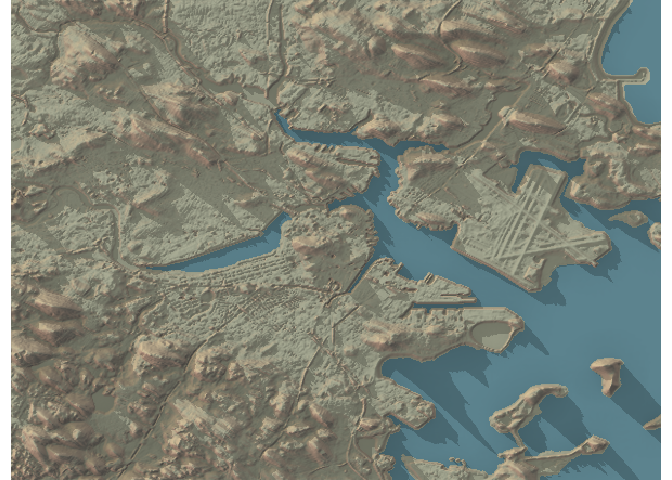
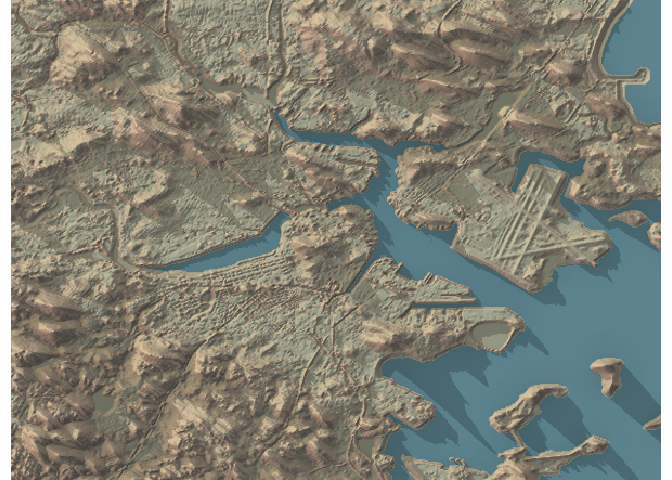
Add paramaters to automap_2d

diff --git a/docs/reference/automap_2d.html b/docs/reference/automap_2d.html
@@ -154,10 +154,16 @@ functioning internet connection in order to retrieve data.</p>
   <span class='kw'>distance</span> <span class='kw'>=</span> <span class='fl'>10</span>,
   <span class='kw'>major.dim</span> <span class='kw'>=</span> <span class='fl'>600</span>,
   <span class='kw'>overlay</span> <span class='kw'>=</span> <span class='kw'>NULL</span>,
-  <span class='kw'>z</span> <span class='kw'>=</span> <span class='fl'>0.3</span>,
+  <span class='kw'>z</span> <span class='kw'>=</span> <span class='fl'>9</span>,
   <span class='kw'>overlay.alpha</span> <span class='kw'>=</span> <span class='fl'>0.75</span>,
   <span class='kw'>colorscale</span> <span class='kw'>=</span> <span class='st'>"imhof4"</span>,
+  <span class='kw'>color.intensity</span> <span class='kw'>=</span> <span class='fl'>1</span>,
   <span class='kw'>max.darken</span> <span class='kw'>=</span> <span class='fl'>0.5</span>,
+  <span class='kw'>sun.angle</span> <span class='kw'>=</span> <span class='fl'>315</span>,
+  <span class='kw'>sun.altitude</span> <span class='kw'>=</span> <span class='fl'>45</span>,
+  <span class='kw'>water.cutoff</span> <span class='kw'>=</span> <span class='fl'>0.999</span>,
+  <span class='kw'>water.min.area</span> <span class='kw'>=</span> <span class='fu'><a href='https://rdrr.io/r/base/length.html'>length</a></span>(<span class='no'>heightmap</span>)/<span class='fl'>400</span>,
+  <span class='kw'>water.max.height</span> <span class='kw'>=</span> <span class='kw'>NULL</span>,
   <span class='kw'>save.tif</span> <span class='kw'>=</span> <span class='fl'>FALSE</span>,
   <span class='kw'>save.png</span> <span class='kw'>=</span> <span class='fl'>FALSE</span>,
   <span class='kw'>from.file</span> <span class='kw'>=</span> <span class='fu'><a href='https://rdrr.io/r/base/c.html'>c</a></span>(<span class='fl'>FALSE</span>, <span class='st'>"tif"</span>, <span class='st'>"png"</span>, <span class='fl'>TRUE</span>),
@@ -204,7 +210,10 @@ local file as an overlay.</p></td>
       <th>z</th>
       <td><p>zscale, passed to various rayshader functions. Defined as
 the ratio between the x and y spacing (which are assumed to be equal)
-and the z axis.</p></td>
+and the z axis. For contiguous United States, USGS data is generally
+available at a ~9 meter spacing, with elevation provided in meter increments,
+resulting in a z value of 9 returning roughly representative maps; decrease
+this value to exaggerate elevation features.</p></td>
     </tr>
     <tr>
       <th>overlay.alpha</th>
@@ -218,8 +227,42 @@ greater than  length 1, values named "water" or "watercolor" will be used
 for water coloring, while "land" or "landcolor" will be used for land.</p></td>
     </tr>
     <tr>
+      <th>color.intensity</th>
+      <td><p>Intensity of color mapping -- higher values result in
+more intense colors.</p></td>
+    </tr>
+    <tr>
       <th>max.darken</th>
-      <td><p>Passed to <code><a href='https://rdrr.io/pkg/rayshader/man/add_shadow.html'>add_shadow</a></code>.</p></td>
+      <td><p>Passed to <code><a href='https://rdrr.io/pkg/rayshader/man/add_shadow.html'>add_shadow</a></code>. The lower
+limit for how much the image will be darkened. 0 is completely black, 1 means
+the shadow map will have no effect.</p></td>
+    </tr>
+    <tr>
+      <th>sun.angle</th>
+      <td><p>Angle around the matrix from which lights originate. Values
+line up with compass directions -- so 0 is directly North, while the default
+315 places the sun in the Northwest.</p></td>
+    </tr>
+    <tr>
+      <th>sun.altitude</th>
+      <td><p>Angle in degrees from horizon from which light
+originates. Bounded [0, 90].</p></td>
+    </tr>
+    <tr>
+      <th>water.cutoff</th>
+      <td><p>Passed to <code><a href='https://rdrr.io/pkg/rayshader/man/detect_water.html'>detect_water</a></code>. Defined
+therein as the lower limit of the z-component of the unit normal vector to
+be classified as water.</p></td>
+    </tr>
+    <tr>
+      <th>water.min.area</th>
+      <td><p>Passed to <code><a href='https://rdrr.io/pkg/rayshader/man/detect_water.html'>detect_water</a></code>. The
+minimum possible area to consider a body of water.</p></td>
+    </tr>
+    <tr>
+      <th>water.max.height</th>
+      <td><p>Passed to <code><a href='https://rdrr.io/pkg/rayshader/man/detect_water.html'>detect_water</a></code>. If
+provided, the maximum height a point can be classified water.</p></td>
     </tr>
     <tr>
       <th>save.tif</th>
@@ -279,6 +322,12 @@ or radians.</p></td>
     <h2 class="hasAnchor" id="value"><a class="anchor" href="#value"></a>Value</h2>
 
     <p>A rayshader map object, by default printed and returned invisibly.</p>
+    <h2 class="hasAnchor" id="references"><a class="anchor" href="#references"></a>References</h2>
+
+    <p>Archuleta, C.M., Constance, E.W., Arundel, S.T., Lowe, A.J., Mantey, K.S.,
+and Phillips, L.A., 2017, The National Map seamless digital elevation model
+specifications: U.S. Geological Survey Techniques and Methods, book 11,
+chap. B9, 39 p., https://doi.org/10.3133/tm11B9</p>
 
   </div>
   <div class="col-md-3 hidden-xs hidden-sm" id="sidebar">
@@ -286,6 +335,7 @@ or radians.</p></td>
     <ul class="nav nav-pills nav-stacked">
       <li><a href="#arguments">Arguments</a></li>
       <li><a href="#value">Value</a></li>
+      <li><a href="#references">References</a></li>
     </ul>
 
   </div>

diff --git a/docs/index.html b/docs/index.html
@@ -96,7 +96,7 @@
 <!-- badges: start -->
 
 <div class="sourceCode" id="cb1"><pre class="sourceCode R"><code class="sourceCode r"><a class="sourceLine" id="cb1-1" data-line-number="1"><span class="kw"><a href="https://rdrr.io/r/base/library.html">library</a></span>(spacey)</a>
-<a class="sourceLine" id="cb1-2" data-line-number="2"><span class="kw"><a href="reference/automap_2d.html">automap_2d</a></span>(<span class="dt">lat =</span> <span class="fl">42.3601</span>, <span class="dt">lng =</span> <span class="fl">-71.0589</span>)</a></code></pre></div>
+<a class="sourceLine" id="cb1-2" data-line-number="2"><span class="kw"><a href="reference/automap_2d.html">automap_2d</a></span>(<span class="dt">lat =</span> <span class="fl">42.3601</span>, <span class="dt">lng =</span> <span class="fl">-71.0589</span>, <span class="dt">z =</span> <span class="fl">0.3</span>)</a></code></pre></div>
 <p><img src="reference/figures/README-demo_map-1.png" width="100%"></p>
 <p>The goal of <code>spacey</code> is to make it easy to work with packages like <a href="https://www.rayshader.com/index.html">rayshader</a> in order to create beautiful landscape visualizations, pulling source data from the USGS for elevation profiles and ESRI for textures to quickly create maps for the area relevant to your analysis.</p>
 <div id="installation" class="section level2">

diff --git a/README.md b/README.md
@@ -16,7 +16,7 @@ coverage](https://codecov.io/gh/mikemahoney218/spacey/branch/master/graph/badge.
 <!-- badges: end -->
 
     library(spacey)
-    automap_2d(lat = 42.3601, lng = -71.0589)
+    automap_2d(lat = 42.3601, lng = -71.0589, z = 0.3)
 
 <img src="man/figures/README-demo_map-1.png" width="100%" />
 
